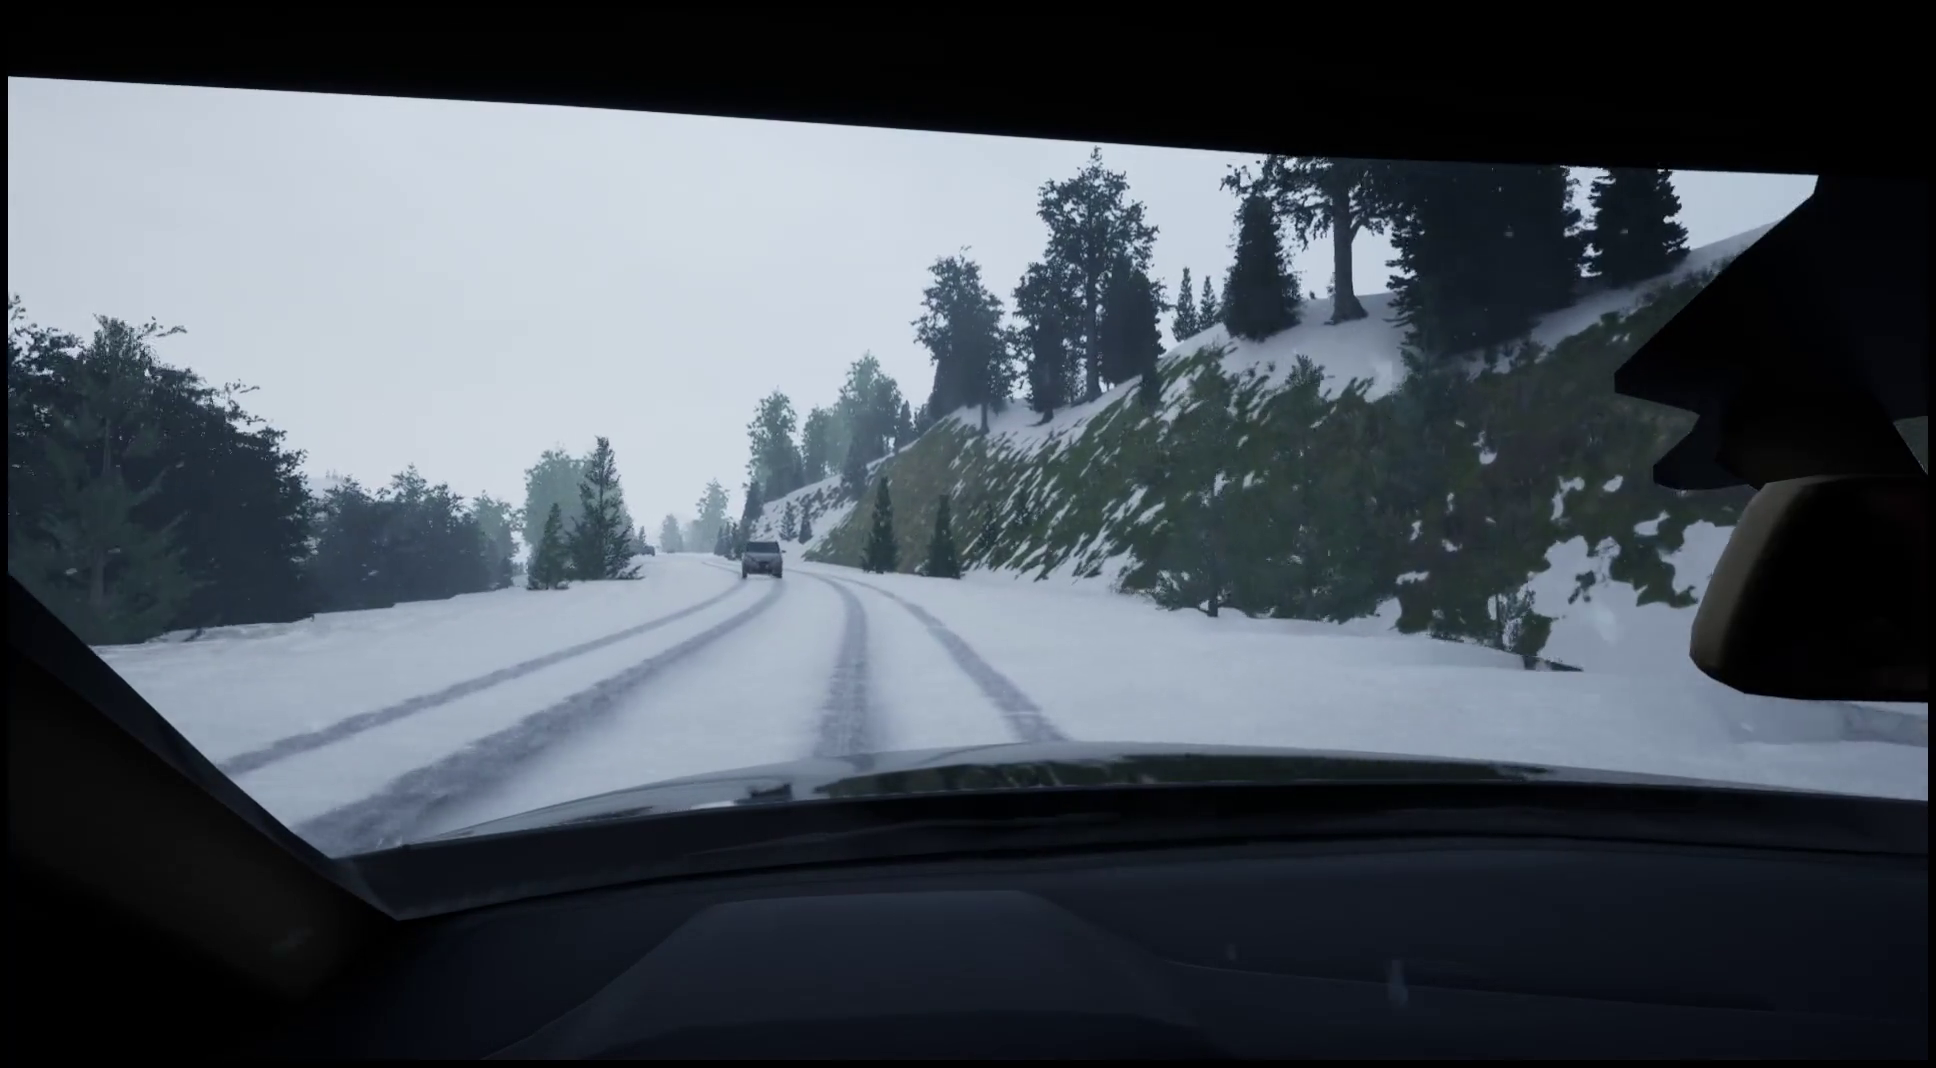
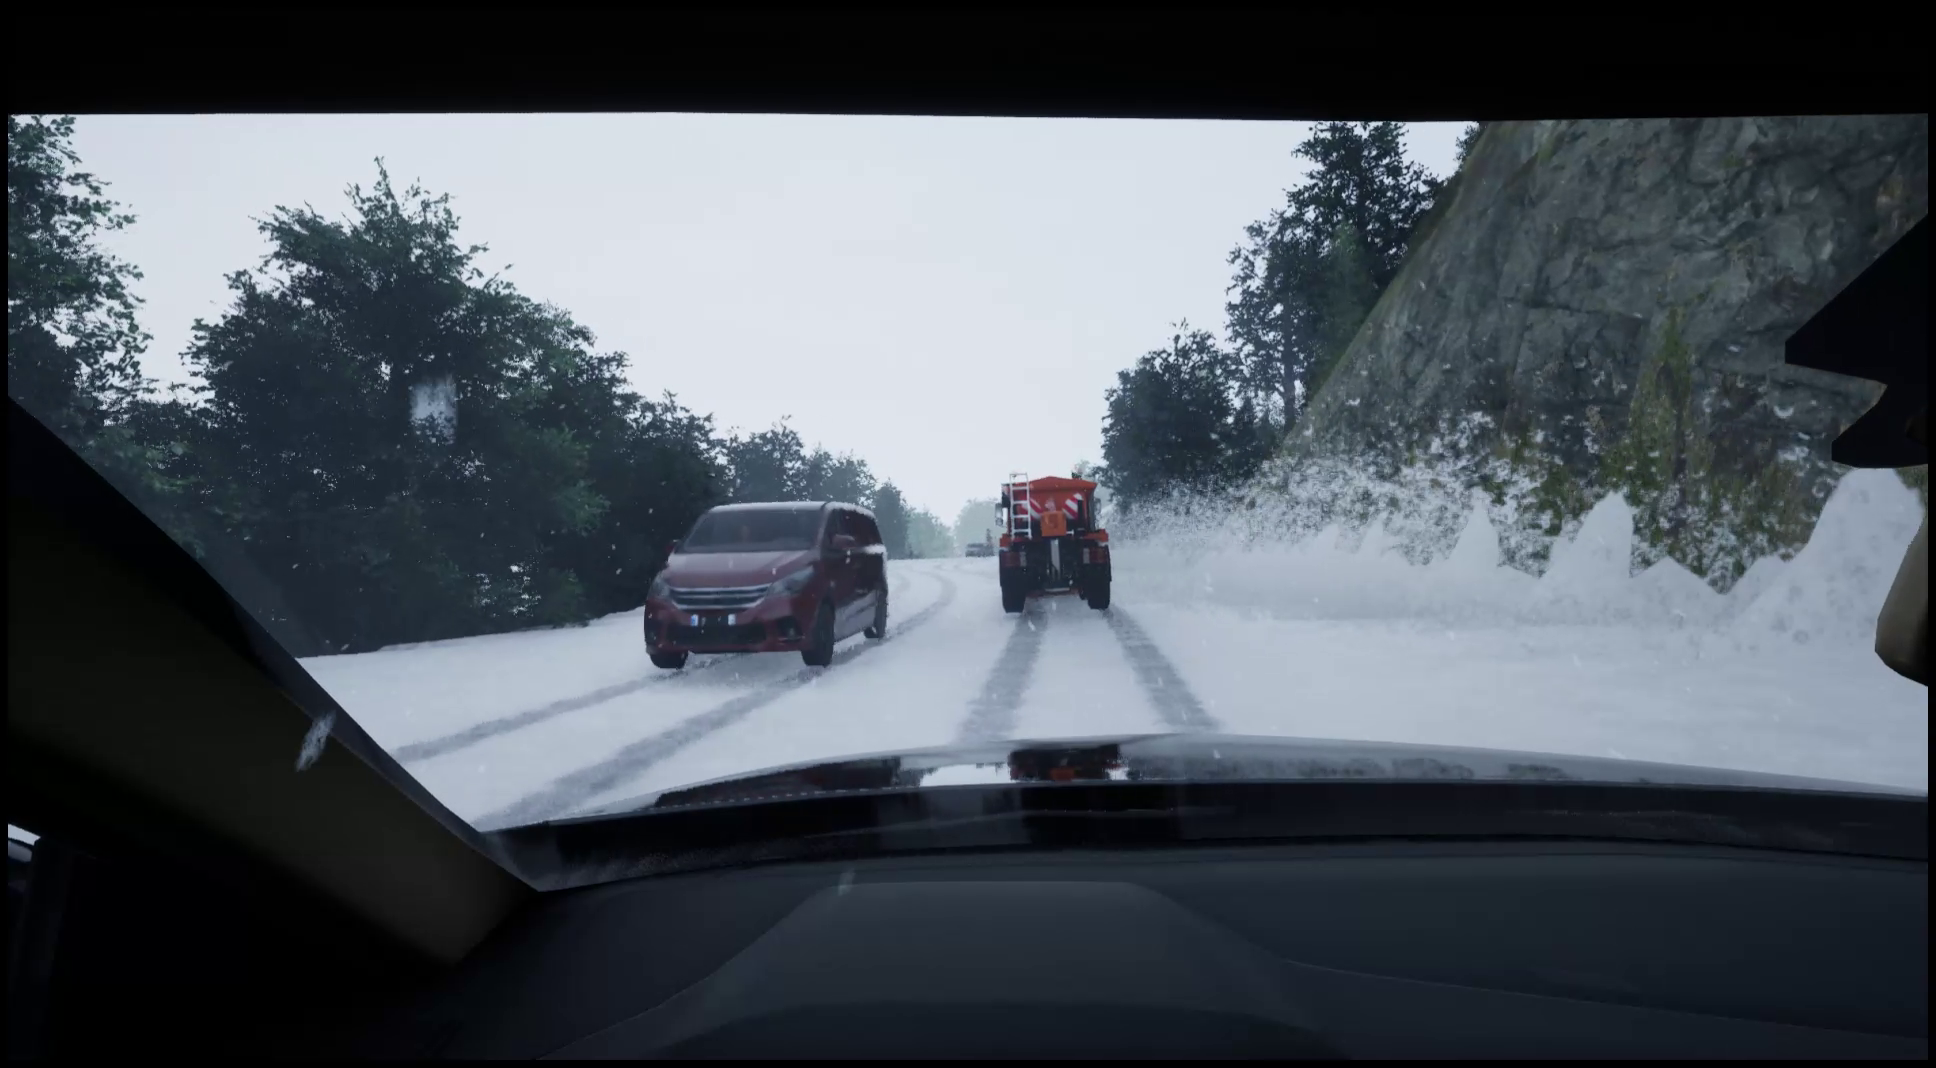
Rouvieres: added snow plow + published

diff --git a/_posts/2023-04-01-anatomy-2.md b/_posts/2023-04-01-anatomy-2.md
@@ -1,5 +1,5 @@
 ---
-published: false
+published: true
 title: 'Anatomy of a scenario: snowy mountain road'
 image: 'rouvieres.png'
 ---
@@ -8,7 +8,7 @@ A while ago, a researcher at my lab asked me: "Now that we're using Unreal Engin
 
 <video width="720" height="480" controls>
   <source type="video/mp4"
-src="https://cdn.discordapp.com/attachments/692419432210759740/1083794277773103114/rouvieres_neige2.mp4.mp4">
+src="https://cdn.discordapp.com/attachments/692419432210759740/1091643105553436694/snowplow.mp4.mp4">
 </video>
 
 # Context
@@ -82,6 +82,14 @@ With all the environment done, it only left traffic to manage. This was the easi
 ![](/images/highway_filler.png)
 
 In this case, it was as simple as using our [Highway Filler](/workflow-2/#scenario) component. As its name suggests, it's designed to fill the opposite side of a highway with never-ending traffic. But it actually works with any type of road, as long as you don't have too many junctions, which is exactly the case for our mountain road.
+
+# Snow plow
+
+The snow plow wasn't bought from the Marketplace, but from [CGTrader](https://www.cgtrader.com/3d-models/vehicle/truck/snowplow-truck-unimog-u500-2). I was rather wary, since you never quite know what you'll end up getting when buying stuff there. It turns out the model is well optimized, has all the textures you'd want, and is available in `.blend` format, so it was perfect for me.
+
+Before importing it to Unreal, I rigged it in Blender in order to create the [Control Rig](https://docs.unrealengine.com/5.0/en-US/control-rig-in-unreal-engine/) later. The main idea is to be able to control the plow as you would in real life; but since it's not really useful for that demo, I didn't implemented the control rig (yet!), I just did the skeleton.
+
+For the snow "spray" (or whatever it's called) in front of the blade, it's a simple [Cascade Particle System](https://docs.unrealengine.com/4.26/en-US/RenderingAndGraphics/ParticleSystems/UserGuide/) (not even [Niagara](https://docs.unrealengine.com/5.0/en-US/getting-started-in-niagara-effects-for-unreal-engine/)) that I found in the [Drivable Cars: Advanced](https://www.unrealengine.com/marketplace/en-US/product/driveable-cars-advanced-pack-ue4-type-vehicle-physics-and-interaction-system) pack from the Marketplace. Since it was initially a simple small water spray, I had to tweak it a bit to make it denser and more snow-looking.
 
 # Conclusion
 
